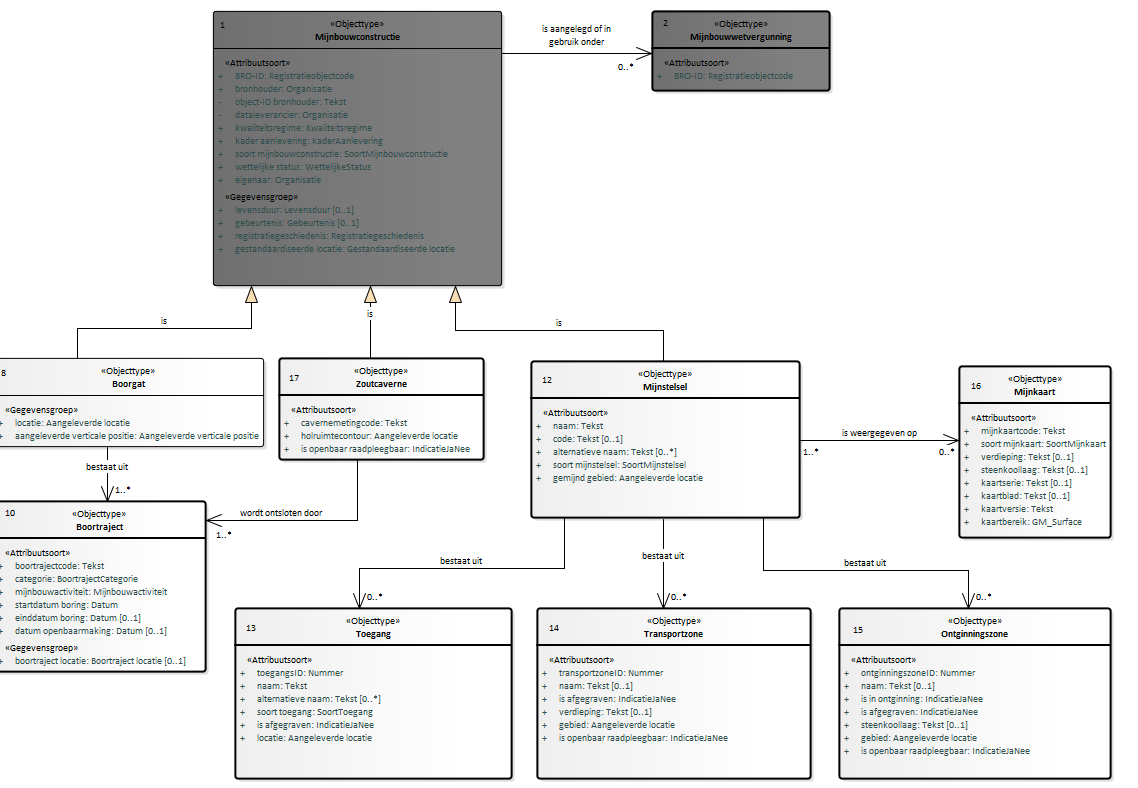
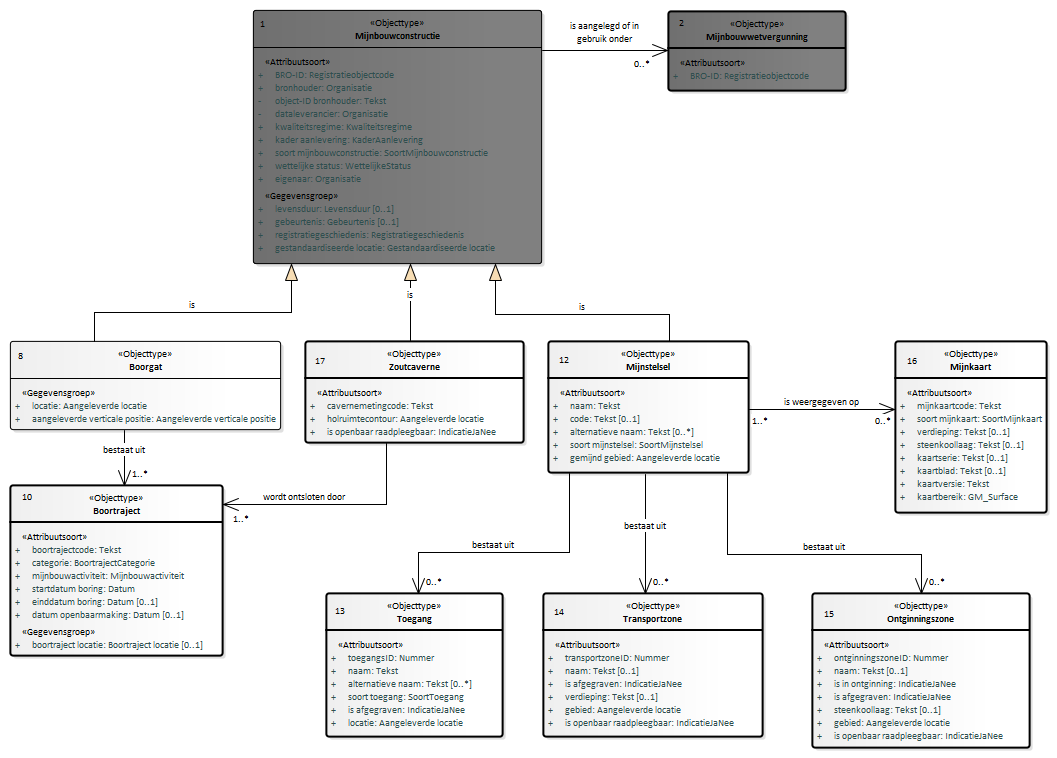
Conceptualmodel-MijnbouwconstructiesEPC-conceptueel-0.1versie27juli2020-1-20200727-20210127-073540

diff --git a/data/EPC-cat.msword.html b/data/EPC-cat.msword.html
@@ -15,7 +15,7 @@
    <body>
       <p>Conceptual model/Mijnbouwconstructies (EPC) - conceptueel/20200727</p>
       <p>Imvertor: 1.63.0</p>
-      <p>Model release: Conceptualmodel-MijnbouwconstructiesEPC-conceptueel-0.1versie27juli2020-1-20200727-20210127-071149</p>
+      <p>Model release: Conceptualmodel-MijnbouwconstructiesEPC-conceptueel-0.1versie27juli2020-1-20200727-20210127-073540</p>
       <hr>
       <section>
          <h1>Artikel 1 Definitie van registratieobject, entiteiten en attributen</h1>
@@ -62,7 +62,7 @@
          <section>
             <h2>Het domeinmodel</h2>
             <section id="">
-               <div class="imageinfo overview"><img src="Images/EAID_017CB205_53B6_4659_8664_F773CFA9FA2C.png" usemap="#imagemap-EAID_017CB205_53B6_4659_8664_F773CFA9FA2C" alt="Diagram "><map name="imagemap-EAID_017CB205_53B6_4659_8664_F773CFA9FA2C"><area shape="rect" alt="Mijnbouwwetvergunning" coords="652,11,830,91" href="#graph_EAID_27B442E5_A032_4487_8D18_F4E249D79776"><area shape="rect" alt="Zoutcaverne" coords="279,358,484,460" href="#graph_EAID_B71159A1_F213_4de2_AED5_550473F15950"><area shape="rect" alt="Mijnkaart" coords="959,366,1111,538" href="#graph_EAID_1A8DB415_AEF6_4f69_8E8C_0187A61B4D1B"><area shape="rect" alt="Ontginningszone" coords="839,608,1111,779" href="#graph_EAID_B1D55B65_6D27_4eb4_86EC_32DE6BA11322"><area shape="rect" alt="Transportzone" coords="537,608,811,779" href="#graph_EAID_828E18BC_B644_41e8_BF25_CBDE10E9249E"><area shape="rect" alt="Toegang" coords="235,608,512,779" href="#graph_EAID_35D7E222_DC56_4b0e_B219_FCFEF3AE6D86"><area shape="rect" alt="Mijnstelsel" coords="531,361,800,518" href="#graph_EAID_CACC8EE7_6654_4fe8_8333_101AC6BA294D"><area shape="rect" alt="Boorgat" coords="-7,358,264,447" href="#graph_EAID_78FEC25A_E260_4420_9D1D_66F309EA2C60"><area shape="rect" alt="Boortraject" coords="-7,501,206,672" href="#graph_EAID_4E52826A_2252_4994_8AD0_986AD45E18C9"><area shape="rect" alt="Mijnbouwconstructie" coords="213,11,502,286" href="#graph_EAID_69DE8D60_7E06_4b57_94CD_8338348EDAE5"></map><p><b>Mijnbouwconstructies (EPC) -  overzicht</b></p>
+               <div class="imageinfo overview"><img src="Images/EAID_017CB205_53B6_4659_8664_F773CFA9FA2C.png" usemap="#imagemap-EAID_017CB205_53B6_4659_8664_F773CFA9FA2C" alt="Diagram "><map name="imagemap-EAID_017CB205_53B6_4659_8664_F773CFA9FA2C"><area shape="rect" alt="Mijnbouwwetvergunning" coords="668,11,846,91" href="#graph_EAID_27B442E5_A032_4487_8D18_F4E249D79776"><area shape="rect" alt="Zoutcaverne" coords="305,341,524,443" href="#graph_EAID_B71159A1_F213_4de2_AED5_550473F15950"><area shape="rect" alt="Mijnkaart" coords="895,341,1047,513" href="#graph_EAID_1A8DB415_AEF6_4f69_8E8C_0187A61B4D1B"><area shape="rect" alt="Ontginningszone" coords="812,593,1030,748" href="#graph_EAID_B1D55B65_6D27_4eb4_86EC_32DE6BA11322"><area shape="rect" alt="Transportzone" coords="543,593,763,737" href="#graph_EAID_828E18BC_B644_41e8_BF25_CBDE10E9249E"><area shape="rect" alt="Toegang" coords="326,593,503,737" href="#graph_EAID_35D7E222_DC56_4b0e_B219_FCFEF3AE6D86"><area shape="rect" alt="Mijnstelsel" coords="548,341,749,473" href="#graph_EAID_CACC8EE7_6654_4fe8_8333_101AC6BA294D"><area shape="rect" alt="Boorgat" coords="10,341,281,430" href="#graph_EAID_78FEC25A_E260_4420_9D1D_66F309EA2C60"><area shape="rect" alt="Boortraject" coords="10,485,223,656" href="#graph_EAID_4E52826A_2252_4994_8AD0_986AD45E18C9"><area shape="rect" alt="Mijnbouwconstructie" coords="253,10,542,264" href="#graph_EAID_69DE8D60_7E06_4b57_94CD_8338348EDAE5"></map><p><b>Mijnbouwconstructies (EPC) -  overzicht</b></p>
                </div>
             </section>
          </section>
@@ -70,7 +70,7 @@
             <h2>Entiteiten en attributen</h2>
             <section id=""><a class="anchor" id="graph_EAID_27B442E5_A032_4487_8D18_F4E249D79776"></a><a class="anchor" id="global_class_Model_Mijnbouwwetvergunning"></a><section id="global_class_Model_Mijnbouwwetvergunning">
                   <h3>   Mijnbouwwetvergunning</h3>
-                  <div class="imageinfo "><img src="Images/EAID_7077FA1A_CA44_47d1_A4BA_3E983DB63091.png" usemap="#imagemap-EAID_7077FA1A_CA44_47d1_A4BA_3E983DB63091" alt="Diagram "><map name="imagemap-EAID_7077FA1A_CA44_47d1_A4BA_3E983DB63091"><area shape="rect" alt="Mijnbouwwetvergunning" coords="10,10,262,80" href="#graph_EAID_27B442E5_A032_4487_8D18_F4E249D79776"></map><p><b></b></p>
+                  <div class="imageinfo "><img src="Images/EAID_7077FA1A_CA44_47d1_A4BA_3E983DB63091.png" usemap="#imagemap-EAID_7077FA1A_CA44_47d1_A4BA_3E983DB63091" alt="Diagram "><map name="imagemap-EAID_7077FA1A_CA44_47d1_A4BA_3E983DB63091"><area shape="rect" alt="Mijnbouwwetvergunning" coords="10,10,183,80" href="#graph_EAID_27B442E5_A032_4487_8D18_F4E249D79776"></map><p><b></b></p>
                   </div>
                   <table style="width: 100%;">
                      <colgroup style="width: 30%;"></colgroup>
@@ -106,7 +106,7 @@
                               <th>Definitie</th>
                               <td>
                                  
-                                 <p>De identificatie van een booronderzoek in de registratie ondergrond.</p>
+                                 <p>De identificatie van een mijnbouwwetvergunning in de registratie ondergrond.</p>
                                  </td>
                            </tr>
                            <tr>
@@ -670,7 +670,7 @@
                            </tr>
                         </tbody>
                      </table>
-                     </section><a class="anchor" id="detail_association_Model_Mijnbouwconstructie_Mijnbouwwetvergunning"></a><section id="detail_association_Model_Mijnbouwconstructie_Mijnbouwwetvergunning">
+                     </section><a class="anchor" id="detail_association_Model_Mijnbouwconstructie_gerelateerdeMijnbouwwetvergunning"></a><section id="detail_association_Model_Mijnbouwconstructie_gerelateerdeMijnbouwwetvergunning">
                      <h4>  is aangelegd of in gebruik onder</h4>
                      
                      
@@ -686,9 +686,8 @@
                               <th>Definitie</th>
                               <td>
                                  
-                                 <p>Onder de mijnbouwwetvergunning is een mijnbouwconstructie aangelegd of in gebruik.</p>
-                                 
-                                 <p>OPEN PUNT</p>
+                                 <p>De mijnbouwwetvergunning waaronder een mijnbouwconstructie is of wordt aangelegd of
+                                    ontgonnen.</p>
                                  </td>
                            </tr>
                            <tr>
@@ -701,7 +700,7 @@
                            </tr>
                            <tr>
                               <th>Relatierol naam</th>
-                              <td>Mijnbouwwetvergunning</td>
+                              <td>gerelateerde Mijnbouwwetvergunning</td>
                            </tr>
                            <tr>
                               <th>Bron</th>
@@ -719,9 +718,11 @@
                                  
                                  <p>Er dient precies één Mijnbouwwetvergunning aanwezig te zijn wanneer het attribuut
                                     soort mijnbouwconstructie gelijk is aan 'boorgat'.<br clear="none">
-                                    Het objecttype Mijnbouwwetvergunning dient aanwezig te zijn wanneer het attribuut
+                                    Er dienen één of meerdere Mijnbouwwetvergunningen aanwezig te zijn wanneer het attribuut
                                     soort mijnbouwconstructie gelijk is aan 'mijnstelsel' en het attribuut wettelijke
-                                    status gelijk is aan 'InGebruik'.</p>
+                                    status gelijk is aan 'InGebruik'.<br clear="none">
+                                    Er mag geen Mijnbouwwetvergunning aanwezig zijn wanneer het attribuut soort mijnbouwconstructie
+                                    gelijk is aan 'zoutcaverne'.</p>
                                  </td>
                            </tr>
                            <tr>
@@ -731,19 +732,9 @@
                                  <p>Voor IMBRO/A-gegevens mag het objecttype Mijnbouwwetvergunning afwezig zijn.</p>
                                  </td>
                            </tr>
-                           <tr>
-                              <th>Toelichting</th>
-                              <td>
-                                 
-                                 <p>Het registratieobject Mijnbouwwetvergunning is gedefinieerd in de BRO gegevenscatalogus
-                                    EPL - Mijnbouwwetvergunning.<br clear="none">
-                                    Bij een boorgat waarvan de gegevens als IMBRO zijn geregistreerd, is de vergunning
-                                    een opsporingsvergunning. Onder IMBRO/A kan de vergunning een winningsvergunning zijn.</p>
-                                 </td>
-                           </tr>
                         </tbody>
                      </table>
-                     </section><a class="anchor" id="detail_d48007e2455"></a><section id="detail_d48007e2455">
+                     </section><a class="anchor" id="detail_d48003e2421"></a><section id="detail_d48003e2421">
                      <h4>  levensduur</h4>
                      
                      
@@ -783,7 +774,7 @@
                            </tr>
                         </tbody>
                      </table>
-                     </section><a class="anchor" id="detail_d48007e2578"></a><section id="detail_d48007e2578">
+                     </section><a class="anchor" id="detail_d48003e2544"></a><section id="detail_d48003e2544">
                      <h4>  gebeurtenis</h4>
                      
                      
@@ -823,7 +814,7 @@
                            </tr>
                         </tbody>
                      </table>
-                     </section><a class="anchor" id="detail_d48007e2701"></a><section id="detail_d48007e2701">
+                     </section><a class="anchor" id="detail_d48003e2667"></a><section id="detail_d48003e2667">
                      <h4>  registratiegeschiedenis</h4>
                      
                      
@@ -863,7 +854,7 @@
                            </tr>
                         </tbody>
                      </table>
-                     </section><a class="anchor" id="detail_d48007e2824"></a><section id="detail_d48007e2824">
+                     </section><a class="anchor" id="detail_d48003e2790"></a><section id="detail_d48003e2790">
                      <h4>  gestandaardiseerde locatie</h4>
                      
                      
@@ -2184,7 +2175,7 @@
                            </tr>
                         </tbody>
                      </table>
-                     </section><a class="anchor" id="detail_d48007e7212"></a><section id="detail_d48007e7212">
+                     </section><a class="anchor" id="detail_d48003e7178"></a><section id="detail_d48003e7178">
                      <h4>  locatie</h4>
                      
                      
@@ -2242,7 +2233,7 @@
                            </tr>
                         </tbody>
                      </table>
-                     </section><a class="anchor" id="detail_d48007e7474"></a><section id="detail_d48007e7474">
+                     </section><a class="anchor" id="detail_d48003e7440"></a><section id="detail_d48003e7440">
                      <h4>  aangeleverde verticale positie</h4>
                      
                      
@@ -2987,7 +2978,7 @@
                            </tr>
                         </tbody>
                      </table>
-                     </section><a class="anchor" id="detail_d48007e9916"></a><section id="detail_d48007e9916">
+                     </section><a class="anchor" id="detail_d48003e9882"></a><section id="detail_d48003e9882">
                      <h4>  boortraject locatie</h4>
                      
                      
@@ -5271,7 +5262,7 @@
                            </tr>
                            <tr>
                               <th>Materiële geschiedenis</th>
-                              <td>Nee</td>
+                              <td>Ja</td>
                            </tr>
                         </tbody>
                      </table>

diff --git a/data/EPC-cat.respec.html b/data/EPC-cat.respec.html
@@ -40,13 +40,13 @@
       </section>
    <section id="">
       <h2>Het domeinmodel   </h2>
-      <div class="imageinfo overview"><img src="data/Images/EAID_017CB205_53B6_4659_8664_F773CFA9FA2C.png" usemap="#imagemap-EAID_017CB205_53B6_4659_8664_F773CFA9FA2C" alt="Diagram "><map name="imagemap-EAID_017CB205_53B6_4659_8664_F773CFA9FA2C"><area shape="rect" alt="Mijnbouwwetvergunning" coords="652,11,830,91" href="#graph_EAID_27B442E5_A032_4487_8D18_F4E249D79776"><area shape="rect" alt="Zoutcaverne" coords="279,358,484,460" href="#graph_EAID_B71159A1_F213_4de2_AED5_550473F15950"><area shape="rect" alt="Mijnkaart" coords="959,366,1111,538" href="#graph_EAID_1A8DB415_AEF6_4f69_8E8C_0187A61B4D1B"><area shape="rect" alt="Ontginningszone" coords="839,608,1111,779" href="#graph_EAID_B1D55B65_6D27_4eb4_86EC_32DE6BA11322"><area shape="rect" alt="Transportzone" coords="537,608,811,779" href="#graph_EAID_828E18BC_B644_41e8_BF25_CBDE10E9249E"><area shape="rect" alt="Toegang" coords="235,608,512,779" href="#graph_EAID_35D7E222_DC56_4b0e_B219_FCFEF3AE6D86"><area shape="rect" alt="Mijnstelsel" coords="531,361,800,518" href="#graph_EAID_CACC8EE7_6654_4fe8_8333_101AC6BA294D"><area shape="rect" alt="Boorgat" coords="-7,358,264,447" href="#graph_EAID_78FEC25A_E260_4420_9D1D_66F309EA2C60"><area shape="rect" alt="Boortraject" coords="-7,501,206,672" href="#graph_EAID_4E52826A_2252_4994_8AD0_986AD45E18C9"><area shape="rect" alt="Mijnbouwconstructie" coords="213,11,502,286" href="#graph_EAID_69DE8D60_7E06_4b57_94CD_8338348EDAE5"></map><p><b>Mijnbouwconstructies (EPC) -  overzicht</b></p>
+      <div class="imageinfo overview"><img src="data/Images/EAID_017CB205_53B6_4659_8664_F773CFA9FA2C.png" usemap="#imagemap-EAID_017CB205_53B6_4659_8664_F773CFA9FA2C" alt="Diagram "><map name="imagemap-EAID_017CB205_53B6_4659_8664_F773CFA9FA2C"><area shape="rect" alt="Mijnbouwwetvergunning" coords="668,11,846,91" href="#graph_EAID_27B442E5_A032_4487_8D18_F4E249D79776"><area shape="rect" alt="Zoutcaverne" coords="305,341,524,443" href="#graph_EAID_B71159A1_F213_4de2_AED5_550473F15950"><area shape="rect" alt="Mijnkaart" coords="895,341,1047,513" href="#graph_EAID_1A8DB415_AEF6_4f69_8E8C_0187A61B4D1B"><area shape="rect" alt="Ontginningszone" coords="812,593,1030,748" href="#graph_EAID_B1D55B65_6D27_4eb4_86EC_32DE6BA11322"><area shape="rect" alt="Transportzone" coords="543,593,763,737" href="#graph_EAID_828E18BC_B644_41e8_BF25_CBDE10E9249E"><area shape="rect" alt="Toegang" coords="326,593,503,737" href="#graph_EAID_35D7E222_DC56_4b0e_B219_FCFEF3AE6D86"><area shape="rect" alt="Mijnstelsel" coords="548,341,749,473" href="#graph_EAID_CACC8EE7_6654_4fe8_8333_101AC6BA294D"><area shape="rect" alt="Boorgat" coords="10,341,281,430" href="#graph_EAID_78FEC25A_E260_4420_9D1D_66F309EA2C60"><area shape="rect" alt="Boortraject" coords="10,485,223,656" href="#graph_EAID_4E52826A_2252_4994_8AD0_986AD45E18C9"><area shape="rect" alt="Mijnbouwconstructie" coords="253,10,542,264" href="#graph_EAID_69DE8D60_7E06_4b57_94CD_8338348EDAE5"></map><p><b>Mijnbouwconstructies (EPC) -  overzicht</b></p>
       </div>
    </section>
    <section id="">
       <h2>Entiteiten en attributen   </h2><a class="anchor" id="graph_EAID_27B442E5_A032_4487_8D18_F4E249D79776"></a><a class="anchor" id="global_class_Model_Mijnbouwwetvergunning"></a><section id="global_class_Model_Mijnbouwwetvergunning">
          <h3>   Mijnbouwwetvergunning</h3>
-         <div class="imageinfo "><img src="data/Images/EAID_7077FA1A_CA44_47d1_A4BA_3E983DB63091.png" usemap="#imagemap-EAID_7077FA1A_CA44_47d1_A4BA_3E983DB63091" alt="Diagram "><map name="imagemap-EAID_7077FA1A_CA44_47d1_A4BA_3E983DB63091"><area shape="rect" alt="Mijnbouwwetvergunning" coords="10,10,262,80" href="#graph_EAID_27B442E5_A032_4487_8D18_F4E249D79776"></map><p><b></b></p>
+         <div class="imageinfo "><img src="data/Images/EAID_7077FA1A_CA44_47d1_A4BA_3E983DB63091.png" usemap="#imagemap-EAID_7077FA1A_CA44_47d1_A4BA_3E983DB63091" alt="Diagram "><map name="imagemap-EAID_7077FA1A_CA44_47d1_A4BA_3E983DB63091"><area shape="rect" alt="Mijnbouwwetvergunning" coords="10,10,183,80" href="#graph_EAID_27B442E5_A032_4487_8D18_F4E249D79776"></map><p><b></b></p>
          </div>
          <table style="width: 100%;">
             <colgroup style="width: 30%;"></colgroup>
@@ -82,7 +82,7 @@
                      <th>Definitie</th>
                      <td>
                         
-                        <p>De identificatie van een booronderzoek in de registratie ondergrond.</p>
+                        <p>De identificatie van een mijnbouwwetvergunning in de registratie ondergrond.</p>
                         </td>
                   </tr>
                   <tr>
@@ -646,7 +646,7 @@
                   </tr>
                </tbody>
             </table>
-            </section><a class="anchor" id="detail_association_Model_Mijnbouwconstructie_Mijnbouwwetvergunning"></a><section id="detail_association_Model_Mijnbouwconstructie_Mijnbouwwetvergunning">
+            </section><a class="anchor" id="detail_association_Model_Mijnbouwconstructie_gerelateerdeMijnbouwwetvergunning"></a><section id="detail_association_Model_Mijnbouwconstructie_gerelateerdeMijnbouwwetvergunning">
             <h4>  is aangelegd of in gebruik onder</h4>
             
             
@@ -662,9 +662,8 @@
                      <th>Definitie</th>
                      <td>
                         
-                        <p>Onder de mijnbouwwetvergunning is een mijnbouwconstructie aangelegd of in gebruik.</p>
-                        
-                        <p>OPEN PUNT</p>
+                        <p>De mijnbouwwetvergunning waaronder een mijnbouwconstructie is of wordt aangelegd of
+                           ontgonnen.</p>
                         </td>
                   </tr>
                   <tr>
@@ -677,7 +676,7 @@
                   </tr>
                   <tr>
                      <th>Relatierol naam</th>
-                     <td>Mijnbouwwetvergunning</td>
+                     <td>gerelateerde Mijnbouwwetvergunning</td>
                   </tr>
                   <tr>
                      <th>Bron</th>
@@ -695,9 +694,11 @@
                         
                         <p>Er dient precies één Mijnbouwwetvergunning aanwezig te zijn wanneer het attribuut
                            soort mijnbouwconstructie gelijk is aan 'boorgat'.<br clear="none">
-                           Het objecttype Mijnbouwwetvergunning dient aanwezig te zijn wanneer het attribuut
+                           Er dienen één of meerdere Mijnbouwwetvergunningen aanwezig te zijn wanneer het attribuut
                            soort mijnbouwconstructie gelijk is aan 'mijnstelsel' en het attribuut wettelijke
-                           status gelijk is aan 'InGebruik'.</p>
+                           status gelijk is aan 'InGebruik'.<br clear="none">
+                           Er mag geen Mijnbouwwetvergunning aanwezig zijn wanneer het attribuut soort mijnbouwconstructie
+                           gelijk is aan 'zoutcaverne'.</p>
                         </td>
                   </tr>
                   <tr>
@@ -707,19 +708,9 @@
                         <p>Voor IMBRO/A-gegevens mag het objecttype Mijnbouwwetvergunning afwezig zijn.</p>
                         </td>
                   </tr>
-                  <tr>
-                     <th>Toelichting</th>
-                     <td>
-                        
-                        <p>Het registratieobject Mijnbouwwetvergunning is gedefinieerd in de BRO gegevenscatalogus
-                           EPL - Mijnbouwwetvergunning.<br clear="none">
-                           Bij een boorgat waarvan de gegevens als IMBRO zijn geregistreerd, is de vergunning
-                           een opsporingsvergunning. Onder IMBRO/A kan de vergunning een winningsvergunning zijn.</p>
-                        </td>
-                  </tr>
                </tbody>
             </table>
-            </section><a class="anchor" id="detail_d48007e2455"></a><section id="detail_d48007e2455">
+            </section><a class="anchor" id="detail_d48003e2421"></a><section id="detail_d48003e2421">
             <h4>  levensduur</h4>
             
             
@@ -759,7 +750,7 @@
                   </tr>
                </tbody>
             </table>
-            </section><a class="anchor" id="detail_d48007e2578"></a><section id="detail_d48007e2578">
+            </section><a class="anchor" id="detail_d48003e2544"></a><section id="detail_d48003e2544">
             <h4>  gebeurtenis</h4>
             
             
@@ -799,7 +790,7 @@
                   </tr>
                </tbody>
             </table>
-            </section><a class="anchor" id="detail_d48007e2701"></a><section id="detail_d48007e2701">
+            </section><a class="anchor" id="detail_d48003e2667"></a><section id="detail_d48003e2667">
             <h4>  registratiegeschiedenis</h4>
             
             
@@ -839,7 +830,7 @@
                   </tr>
                </tbody>
             </table>
-            </section><a class="anchor" id="detail_d48007e2824"></a><section id="detail_d48007e2824">
+            </section><a class="anchor" id="detail_d48003e2790"></a><section id="detail_d48003e2790">
             <h4>  gestandaardiseerde locatie</h4>
             
             
@@ -2160,7 +2151,7 @@
                   </tr>
                </tbody>
             </table>
-            </section><a class="anchor" id="detail_d48007e7212"></a><section id="detail_d48007e7212">
+            </section><a class="anchor" id="detail_d48003e7178"></a><section id="detail_d48003e7178">
             <h4>  locatie</h4>
             
             
@@ -2218,7 +2209,7 @@
                   </tr>
                </tbody>
             </table>
-            </section><a class="anchor" id="detail_d48007e7474"></a><section id="detail_d48007e7474">
+            </section><a class="anchor" id="detail_d48003e7440"></a><section id="detail_d48003e7440">
             <h4>  aangeleverde verticale positie</h4>
             
             
@@ -2963,7 +2954,7 @@
                   </tr>
                </tbody>
             </table>
-            </section><a class="anchor" id="detail_d48007e9916"></a><section id="detail_d48007e9916">
+            </section><a class="anchor" id="detail_d48003e9882"></a><section id="detail_d48003e9882">
             <h4>  boortraject locatie</h4>
             
             
@@ -5247,7 +5238,7 @@
                   </tr>
                   <tr>
                      <th>Materiële geschiedenis</th>
-                     <td>Nee</td>
+                     <td>Ja</td>
                   </tr>
                </tbody>
             </table>
